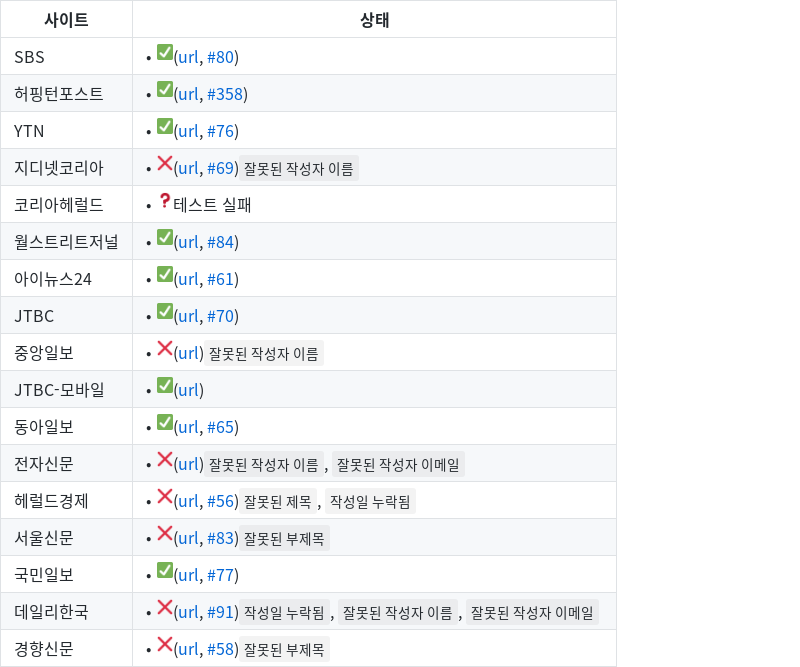
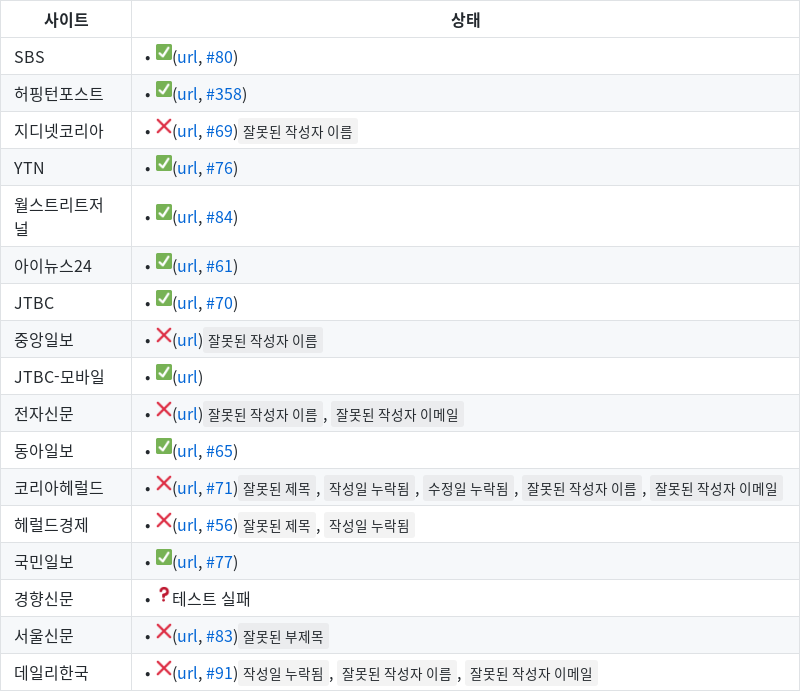
Sun Mar  8 00:14:52 UTC 2020

diff --git a/health-check.md b/health-check.md
@@ -2,18 +2,18 @@
 |------|-------|
 | SBS | • ✅([url](https://news.sbs.co.kr/news/endPage.do?news_id=N1002697236), [#80](https://github.com/disjukr/just-news/issues/#80)) |
 | 허핑턴포스트 | • ✅([url](https://www.huffingtonpost.kr/entry/story_kr_5d36a558e4b004b6adb5029c?9e4), [#358](https://github.com/disjukr/just-news/issues/#358)) |
-| YTN | • ✅([url](https://www.ytn.co.kr/_ln/0103_201411190800481989), [#76](https://github.com/disjukr/just-news/issues/#76)) |
 | 지디넷코리아 | • ❌([url](http://www.zdnet.co.kr/view/?no=20141104074223), [#69](https://github.com/disjukr/just-news/issues/#69))`잘못된 작성자 이름` |
-| 코리아헤럴드 | • ❓테스트 실패 |
+| YTN | • ✅([url](https://www.ytn.co.kr/_ln/0103_201411190800481989), [#76](https://github.com/disjukr/just-news/issues/#76)) |
 | 월스트리트저널 | • ✅([url](https://realtime.wsj.com/korea/2014/10/13/%EB%B0%95%EC%9B%90%EC%88%9C-%EC%84%9C%EC%9A%B8%EC%8B%9C%EC%9E%A5-%EB%AF%B8%EA%B5%AD-%EC%96%B8%EB%A1%A0%EC%97%90-%EB%8F%99%EC%84%B1%EA%B2%B0%ED%98%BC-%EC%A7%80%EC%A7%80-%EB%B0%9C%EC%96%B8/), [#84](https://github.com/disjukr/just-news/issues/#84)) |
 | 아이뉴스24 | • ✅([url](http://www.inews24.com/view/860573), [#61](https://github.com/disjukr/just-news/issues/#61)) |
 | JTBC | • ✅([url](http://news.jtbc.joins.com/article/article.aspx?news_id=NB10639468), [#70](https://github.com/disjukr/just-news/issues/#70)) |
 | 중앙일보 | • ❌([url](https://news.joins.com/article/23621286))`잘못된 작성자 이름` |
 | JTBC-모바일 | • ✅([url](http://mnews.jtbc.joins.com/News/Article.aspx?news_id=NB11866214)) |
-| 동아일보 | • ✅([url](http://news.donga.com/3/03/20141107/67723014/1), [#65](https://github.com/disjukr/just-news/issues/#65)) |
 | 전자신문 | • ❌([url](http://www.etnews.com/20191031000370?mc=ns_003_00006))`잘못된 작성자 이름`, `잘못된 작성자 이메일` |
+| 동아일보 | • ✅([url](http://news.donga.com/3/03/20141107/67723014/1), [#65](https://github.com/disjukr/just-news/issues/#65)) |
+| 코리아헤럴드 | • ❌([url](http://khnews.kheraldm.com/view.php?ud=20141111001137&md=20141111180830_BK&kr=1), [#71](https://github.com/disjukr/just-news/issues/#71))`잘못된 제목`, `작성일 누락됨`, `수정일 누락됨`, `잘못된 작성자 이름`, `잘못된 작성자 이메일` |
 | 헤럴드경제 | • ❌([url](http://news.heraldcorp.com/view.php?ud=20141023000202&md=20141023091209_BK), [#56](https://github.com/disjukr/just-news/issues/#56))`잘못된 제목`, `작성일 누락됨` |
-| 서울신문 | • ❌([url](http://seoul.co.kr/news/newsView.php?id=20141204500025), [#83](https://github.com/disjukr/just-news/issues/#83))`잘못된 부제목` |
 | 국민일보 | • ✅([url](http://news.kmib.co.kr/article/view.asp?arcid=0008864720&code=61121111), [#77](https://github.com/disjukr/just-news/issues/#77)) |
+| 경향신문 | • ❓테스트 실패 |
+| 서울신문 | • ❌([url](http://seoul.co.kr/news/newsView.php?id=20141204500025), [#83](https://github.com/disjukr/just-news/issues/#83))`잘못된 부제목` |
 | 데일리한국 | • ❌([url](http://daily.hankooki.com/lpage/politics/201412/dh20141219103740137430.htm), [#91](https://github.com/disjukr/just-news/issues/#91))`작성일 누락됨`, `잘못된 작성자 이름`, `잘못된 작성자 이메일` |
-| 경향신문 | • ❌([url](http://biz.khan.co.kr/khan_art_view.html?artid=201410311921301&code=920100&med=khan), [#58](https://github.com/disjukr/just-news/issues/#58))`잘못된 부제목` |
